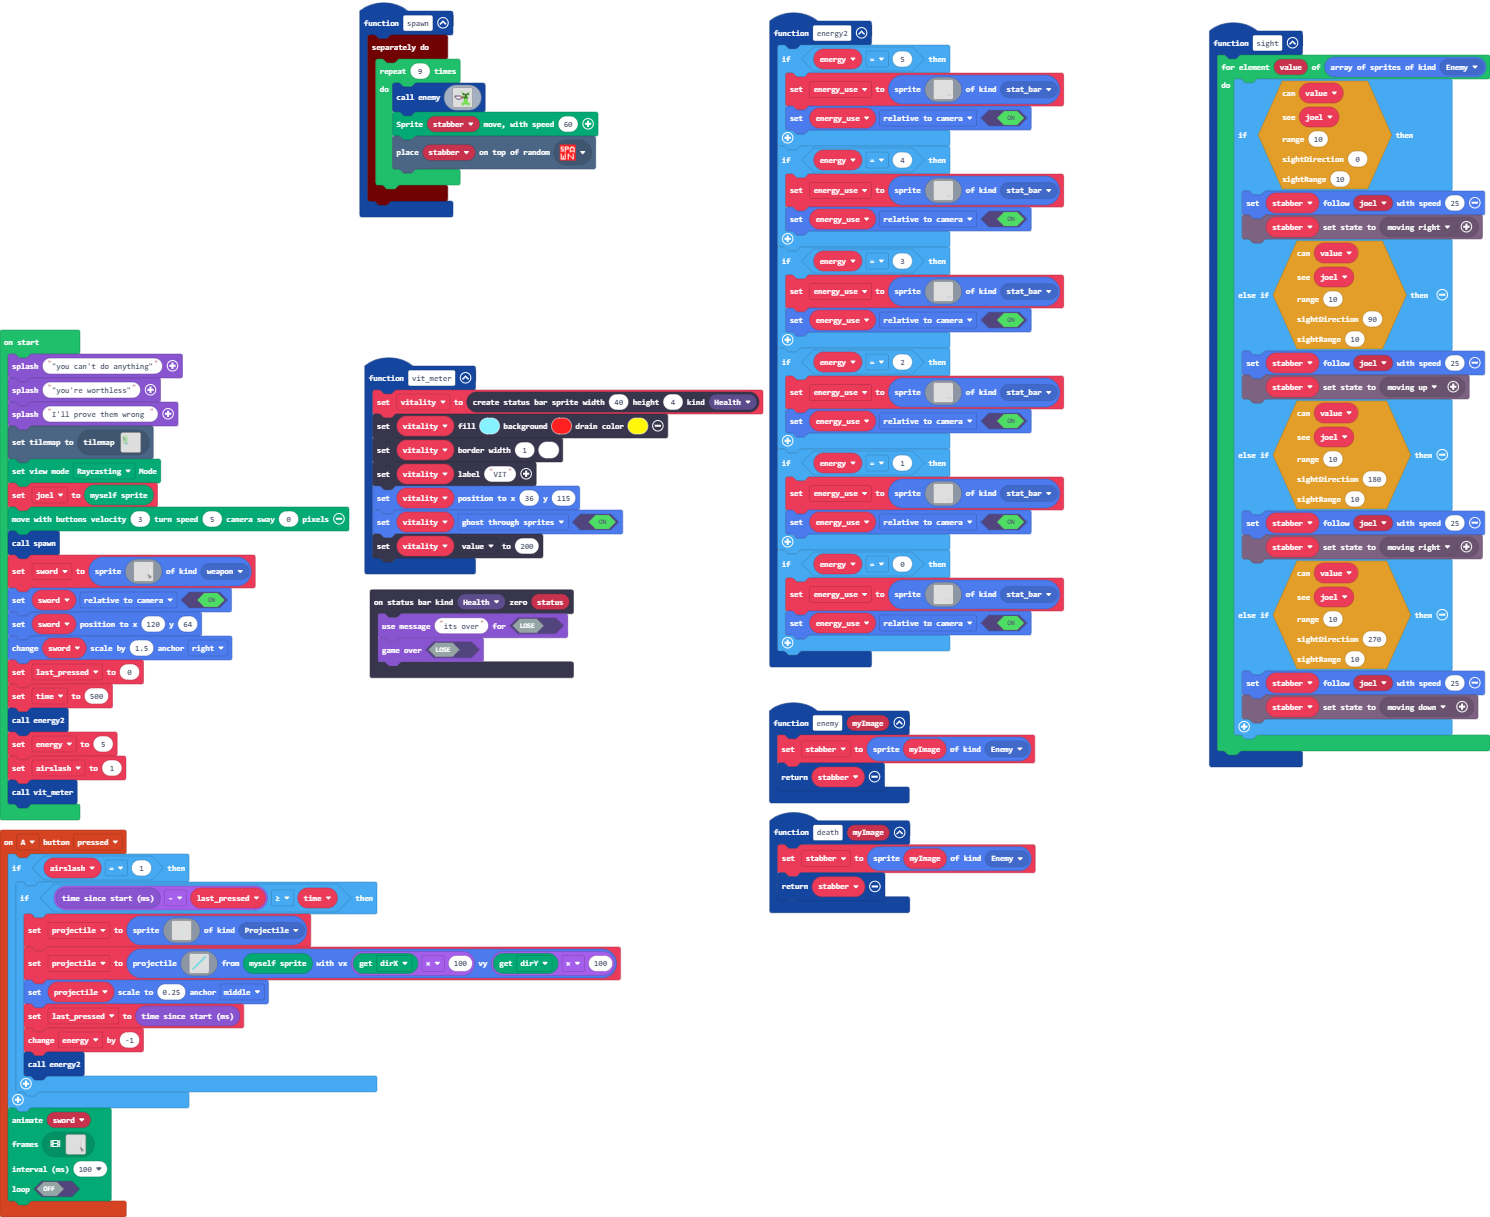
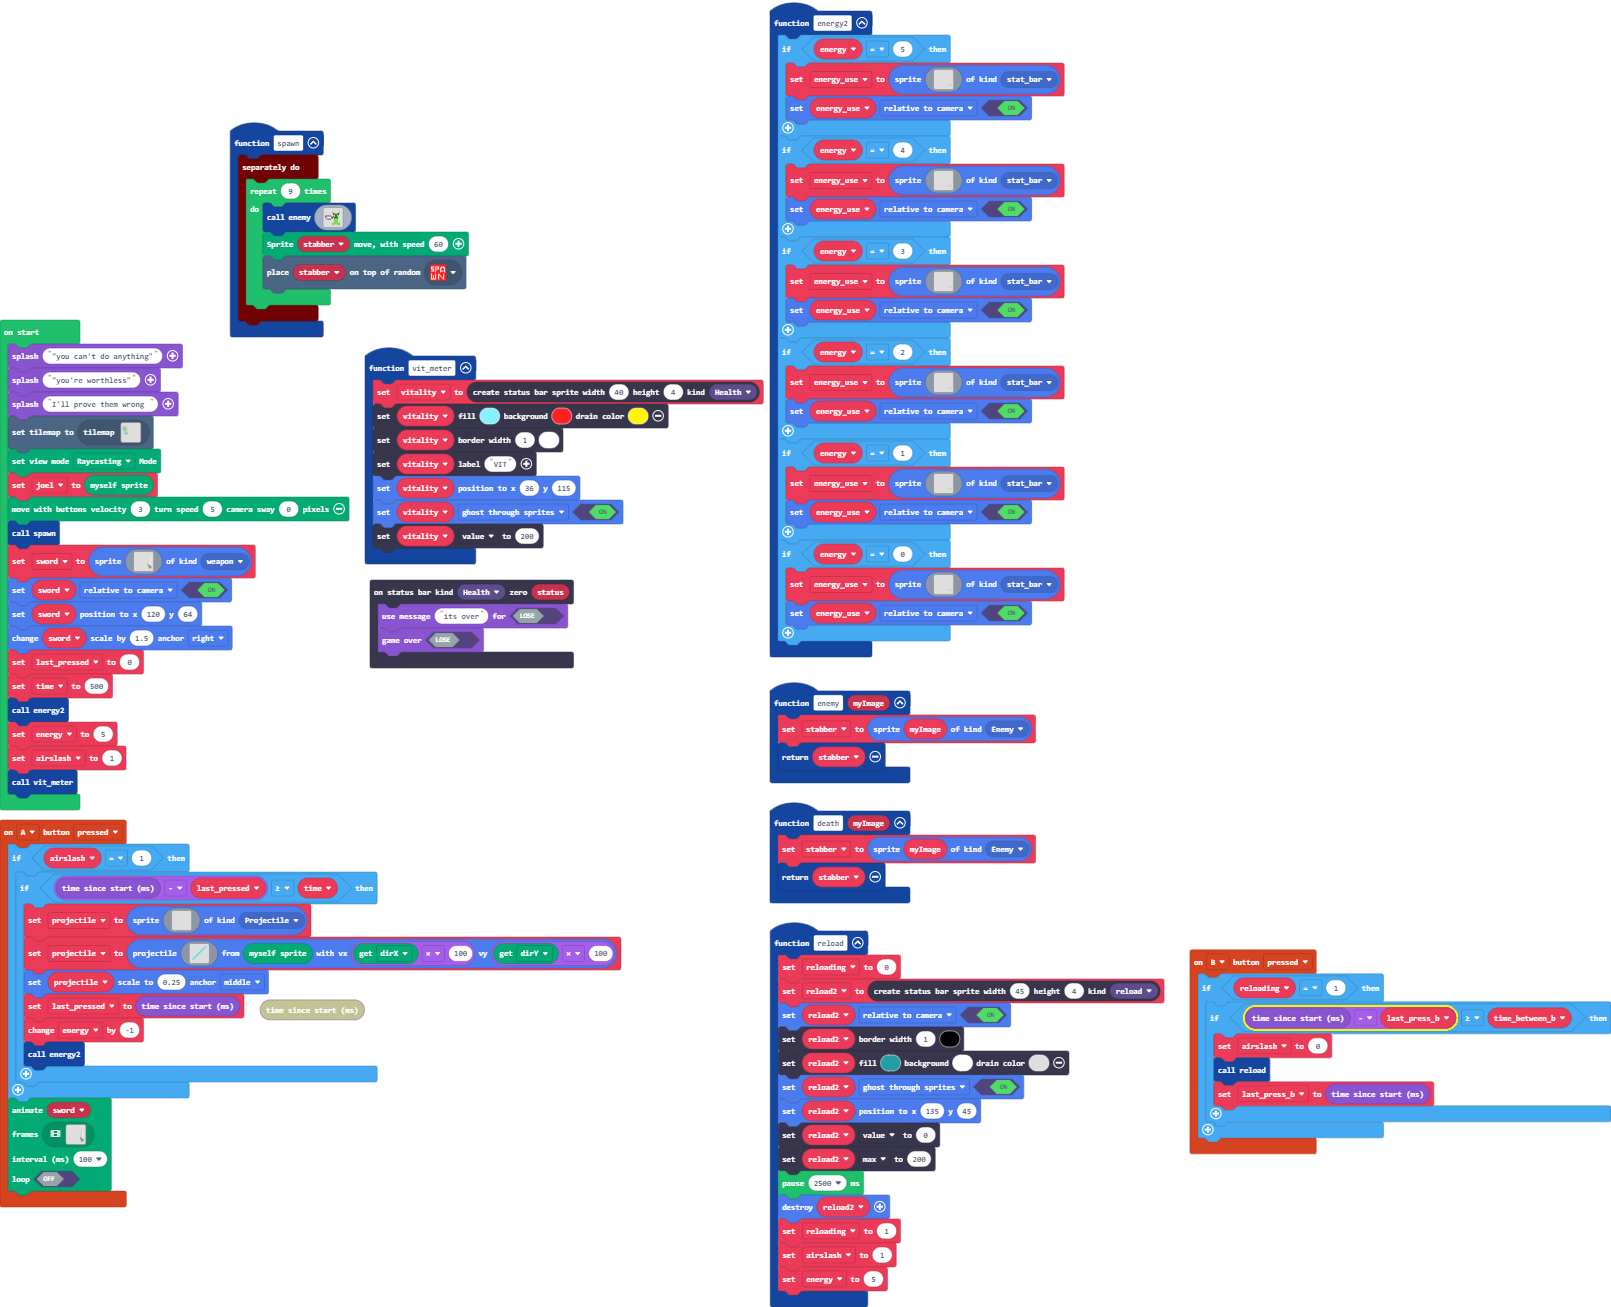
Update main.blocks, main.ts

diff --git a/main.ts b/main.ts
@@ -3,6 +3,35 @@ namespace SpriteKind {
     export const stat_bar = SpriteKind.create()
     export const ded = SpriteKind.create()
 }
+namespace StatusBarKind {
+    export const reload = StatusBarKind.create()
+}
+function reload () {
+    reloading = 0
+    reload2 = statusbars.create(45, 4, StatusBarKind.reload)
+    reload2.setFlag(SpriteFlag.RelativeToCamera, true)
+    reload2.setBarBorder(1, 15)
+    reload2.setColor(6, 1, 0)
+    reload2.setFlag(SpriteFlag.GhostThroughSprites, true)
+    reload2.setPosition(135, 45)
+    reload2.value = 0
+    reload2.max = 200
+    pause(2500)
+    sprites.destroy(reload2)
+    reloading = 1
+    airslash = 1
+    energy = 5
+}
+controller.B.onEvent(ControllerButtonEvent.Pressed, function () {
+    if (reloading == 1) {
+        let time_between_b = 0
+        if (game.runtime() - last_press_b >= time_between_b) {
+            airslash = 0
+            reload()
+            last_press_b = game.runtime()
+        }
+    }
+})
 function energy2 () {
     if (energy == 5) {
         energy_use = sprites.create(assets.image`5energy_bar`, SpriteKind.stat_bar)
@@ -354,63 +383,24 @@ function spawn () {
         }
     })
 }
-function sight2 () {
-    for (let value of sprites.allOfKind(SpriteKind.Enemy)) {
-        if (sight.isInSightCone(
-        value,
-        joel,
-        10,
-        0,
-        10
-        )) {
-            stabber.follow(joel, 25)
-            characterAnimations.setCharacterState(stabber, characterAnimations.rule(Predicate.MovingRight))
-        } else if (sight.isInSightCone(
-        value,
-        joel,
-        10,
-        90,
-        10
-        )) {
-            stabber.follow(joel, 25)
-            characterAnimations.setCharacterState(stabber, characterAnimations.rule(Predicate.MovingUp))
-        } else if (sight.isInSightCone(
-        value,
-        joel,
-        10,
-        180,
-        10
-        )) {
-            stabber.follow(joel, 25)
-            characterAnimations.setCharacterState(stabber, characterAnimations.rule(Predicate.MovingRight))
-        } else if (sight.isInSightCone(
-        value,
-        joel,
-        10,
-        270,
-        10
-        )) {
-            stabber.follow(joel, 25)
-            characterAnimations.setCharacterState(stabber, characterAnimations.rule(Predicate.MovingDown))
-        }
-    }
-}
 let vitality: StatusBarSprite = null
 let stabber: Sprite = null
 let projectile: Sprite = null
 let energy_use: Sprite = null
+let last_press_b = 0
+let reload2: StatusBarSprite = null
+let reloading = 0
 let airslash = 0
 let energy = 0
 let time = 0
 let last_pressed = 0
 let sword: Sprite = null
-let joel: Sprite = null
 game.splash("\"you can't do anything\"")
 game.splash("\"you're worthless\"")
 game.splash("I'll prove them wrong ")
 tiles.setCurrentTilemap(tilemap`level`)
 Render.setViewMode(ViewMode.raycastingView)
-joel = Render.getRenderSpriteVariable()
+let joel = Render.getRenderSpriteVariable()
 Render.moveWithController(3, 5, 0)
 spawn()
 sword = sprites.create(assets.image`sword`, SpriteKind.weapon)
